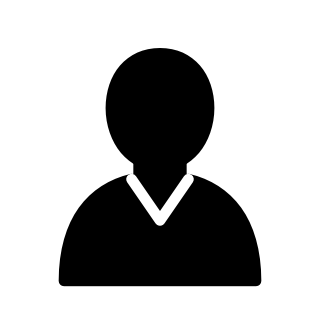
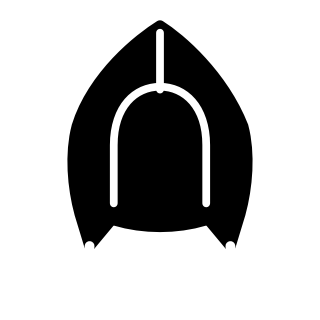
Use coif option 2 for the Man piece

Changed region(s): [[0.1562, 0.0625, 0.8438, 0.9062]]

diff --git a/CLAUDE.md b/CLAUDE.md
@@ -94,7 +94,7 @@ Steps 1–4 DONE: army data and rules, army builder screen, saving up to 10 armi
 * Lance (L, 2.5): slides straight forward only; Promote keyword (same choices as pawns). Its moves do NOT reset the 50-move count (Mac's call).
 * Paladin (PD, 2): one step orthogonally; Shield keyword. First capture only breaks the shield: attacker stays put, turn used, counts as a capture for the 50-move rule; the shield never returns. Consequence (told to Mac): a shielded piece giving check can't be removed by "capturing" it — the king must move or block.
 * Symbols: one or two capital letters (Mac's decision). Notation writes them as-is (PDe4); FEN wraps two-letter symbols in brackets ((PD)/(pd)) and marks a broken shield with ' after the piece. A shield break is written like a capture with * on the end (Rxd5*); it moves nothing, so it never gives check.
-* Art: paladin approved (armoured knight behind a big cross shield; `<team>_paladin_wounded` without it, shown once the shield breaks via `PieceArt` variant "wounded"). Cannon (final): the round-one standing cannon (barrel pointing left on an eight-spoke wheel, trail behind), no base, 15% bigger (`piece_options/round5/`). Lance (final): barbed arrowhead on a bell-shaped base, from Mac's reference (`piece_options/round3/`). Man: to be just a linen coif (close cap tied under the chin), no person, like the king's crown and bishop's mitre. Mac likes front views S and U (`piece_options/round6/`); variants S2–S4 and U2–U4 in `piece_options/round7/`; then Mac sent a photo (pointed top, centre seam, angular jaw points, long ties): coif_1–5 in `piece_options/round8/`; A, plain bust, is in use until then. Sources in `res://art/source/piece_options/` (`make_pieces.py` scripts draw them).
+* Art: paladin approved (armoured knight behind a big cross shield; `<team>_paladin_wounded` without it, shown once the shield breaks via `PieceArt` variant "wounded"). Cannon (final): the round-one standing cannon (barrel pointing left on an eight-spoke wheel, trail behind), no base, 15% bigger (`piece_options/round5/`). Lance (final): barbed arrowhead on a bell-shaped base, from Mac's reference (`piece_options/round3/`). Man (final): just a linen coif, no person, like the king's crown and bishop's mitre — option coif_2 in `piece_options/round8/`, shaped after Mac's photo (pointed top with centre seam, sides ending in angular points at the jaw, hem around the opening, ties hanging down). All four custom pieces' art is now final. Sources in `res://art/source/piece_options/` (`make_pieces.py` scripts draw them).
 
 ## Previous milestone: playable board (pass and play)
 
